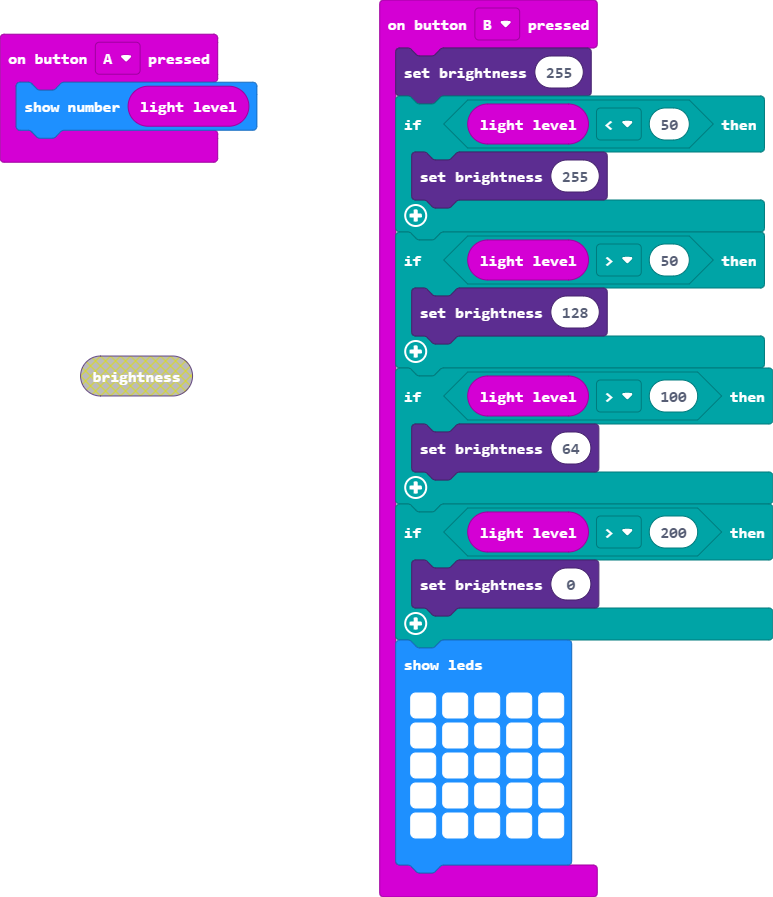
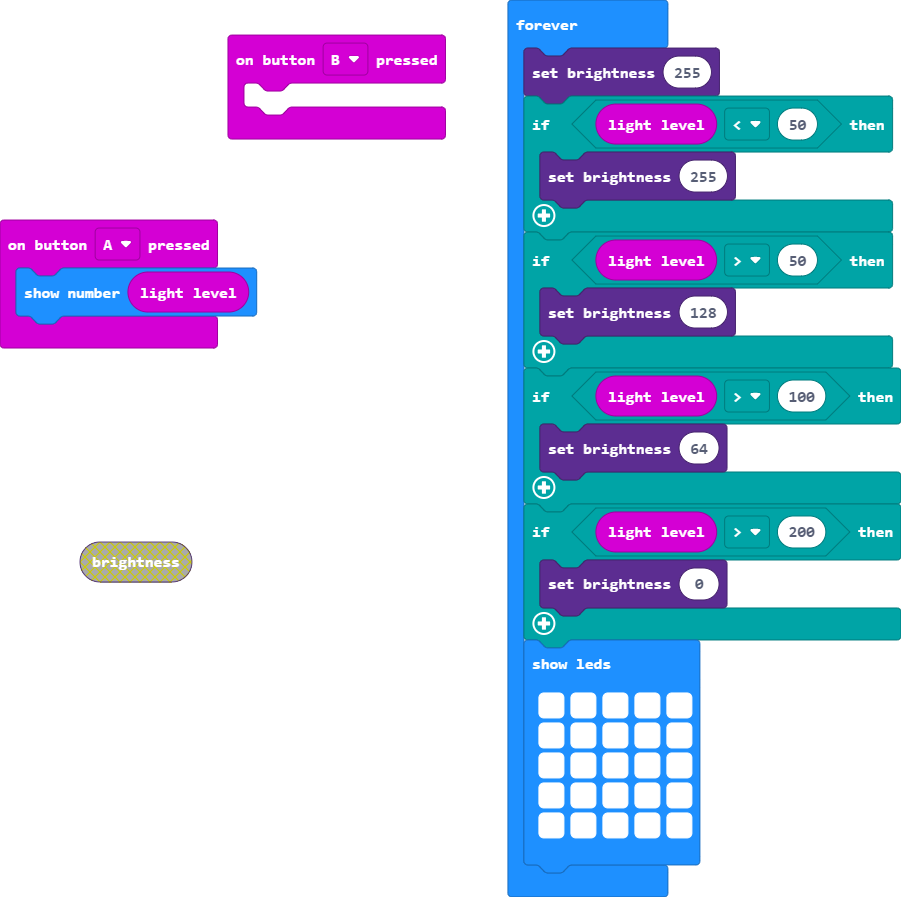
Update main.blocks, main.ts

diff --git a/main.ts b/main.ts
@@ -2,6 +2,9 @@ input.onButtonPressed(Button.A, function () {
     basic.showNumber(input.lightLevel())
 })
 input.onButtonPressed(Button.B, function () {
+	
+})
+basic.forever(function () {
     led.setBrightness(255)
     if (input.lightLevel() < 50) {
         led.setBrightness(255)
